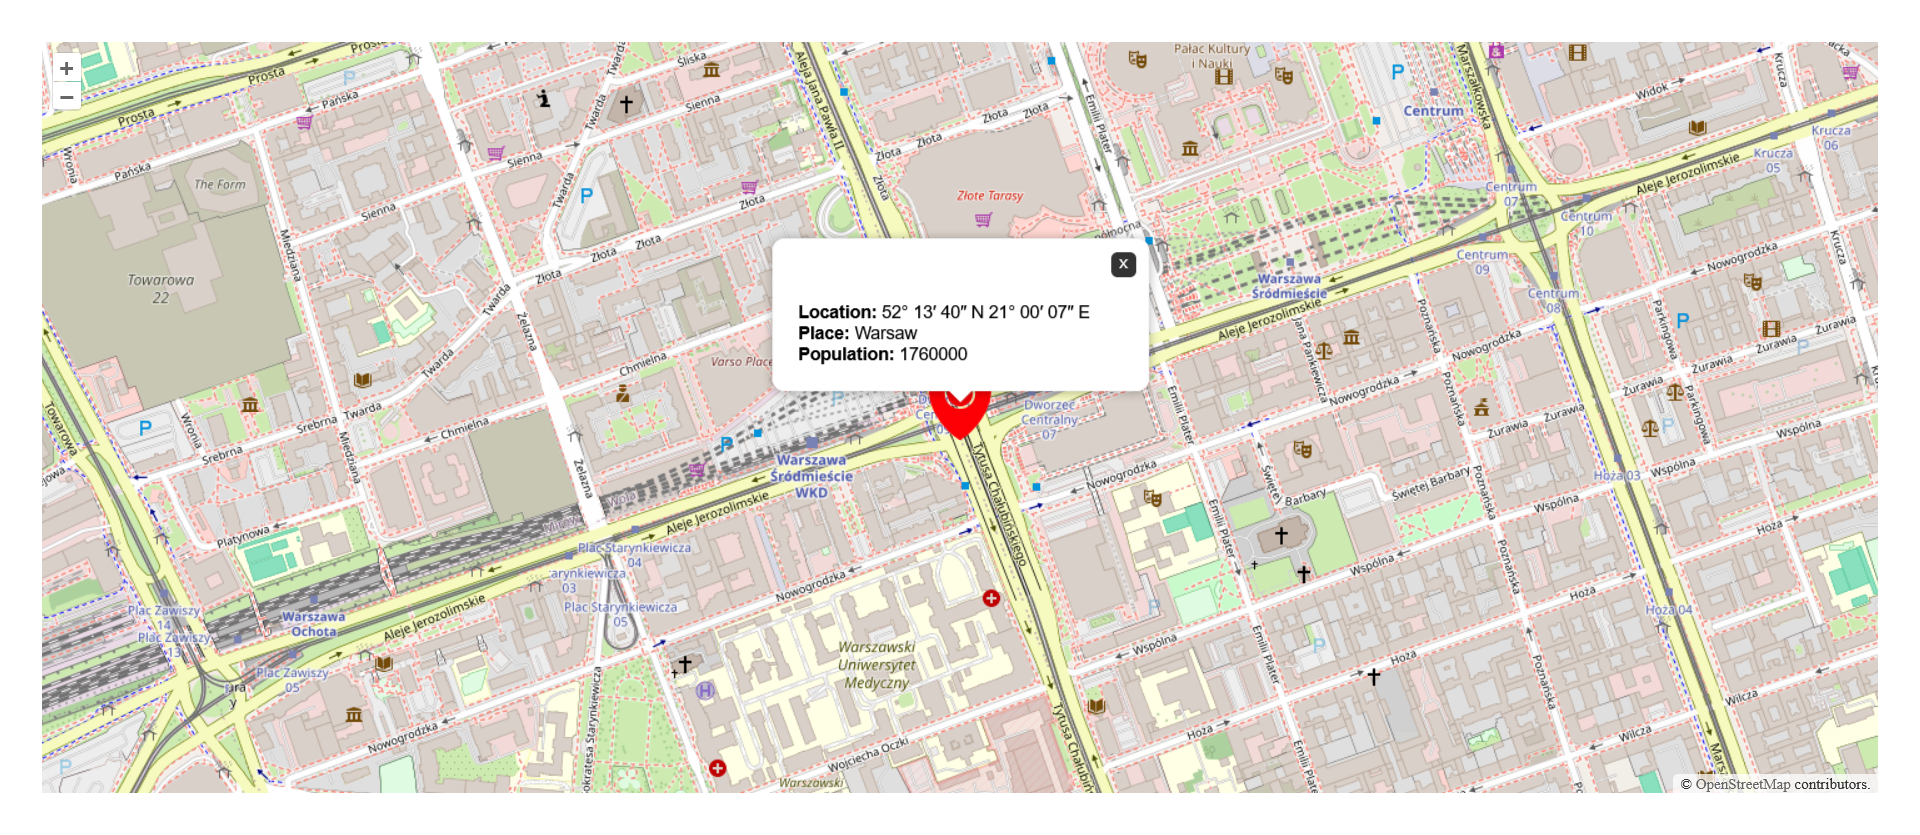
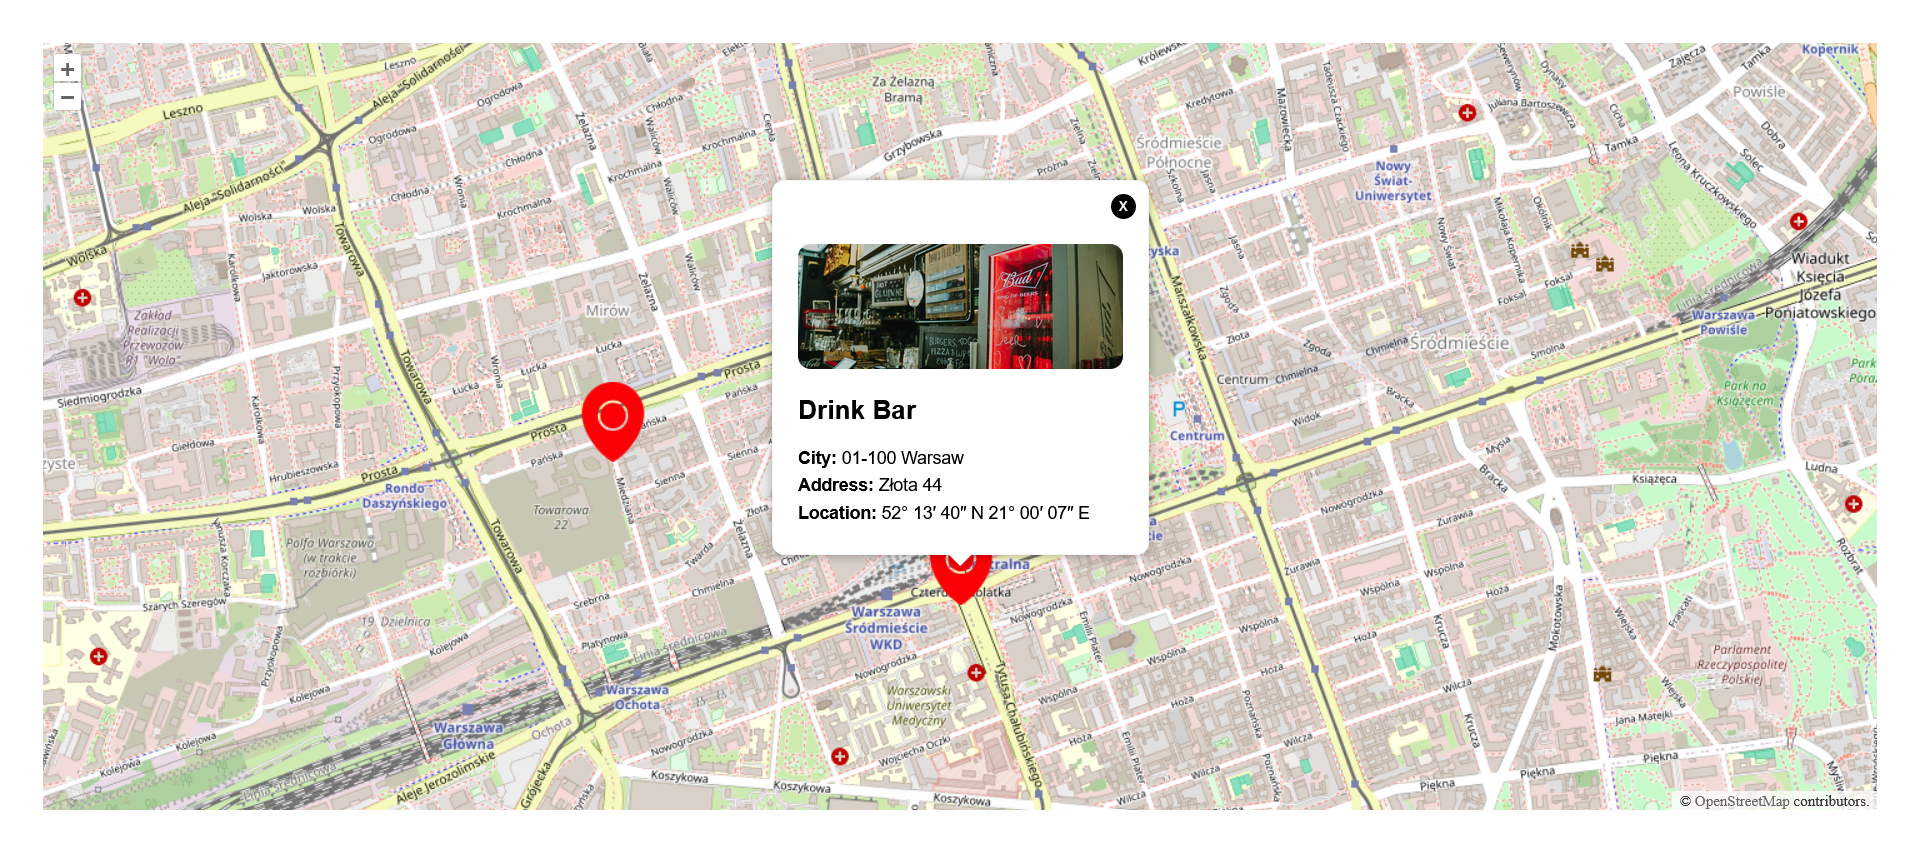
Map markers with popup using OpenLayers
How to create a simple map with a markers using OpenLayers map.

diff --git a/ol-map.js b/ol-map.js
@@ -6,22 +6,34 @@ import Point from 'ol/geom/Point.js';
 import {Icon, Style} from 'ol/style.js';
 import { Vector as VectorSource } from 'ol/source.js';
 import { Tile as TileLayer, Vector as VectorLayer, Image as ImageLayer } from 'ol/layer.js';
-import { fromLonLat } from 'ol/proj.js';
-import { toLonLat } from 'ol/proj.js';
+import { toLonLat, fromLonLat } from 'ol/proj.js';
 import { toStringHDMS } from 'ol/coordinate.js';
 
 // Settings
-const zoom = 16;
-const point = [21.00192, 52.22774]; // LonLat
+const zoom = 15;
+const point = [21.00192, 52.22774]; // Center map
 const lonlat = fromLonLat(point)
+const features = []
 
-// Marker
-const icon = new Feature({  
-  geometry: new Point(lonlat),
-  name: 'Warsaw',
-  population: 1760000,
-});
+// Add markers
+const locations = [
+  {
+    name: 'Drink Bar',
+    street: 'Złota 44',
+    city: '01-100 Warsaw',
+    image: 'https://images.pexels.com/photos/11468998/pexels-photo-11468998.jpeg',
+    point: [21.00192, 52.22774]
+  },
+  {
+    name: 'Pool Bar',
+    street: 'Piękna 14',
+    city: '02-100 Warsaw',
+    image: 'https://images.pexels.com/photos/261043/pexels-photo-261043.jpeg',
+    point: [20.99000, 52.23074]
+  }
+]
 
+// Icon style
 const iconStyle = new Style({
   image: new Icon({
     anchor: [0.5, 46],
@@ -31,10 +43,24 @@ const iconStyle = new Style({
   }),
 });
 
-icon.setStyle(iconStyle);
+// Markers
+locations.forEach((i) => {
+  // Create marker
+  const icon = new Feature({  
+    geometry: new Point(fromLonLat(i.point)),
+    name: i.name,
+    city: i.city,
+    street: i.street,
+    image: i.image
+  })
+  // Add style
+  icon.setStyle(iconStyle)
+  // Add to array
+  features.push(icon)
+})
 
-const vectorSource = new VectorSource({
-  features: [icon],
+const vectorSource = new VectorSource({  
+  features: features,
 });
 
 const vectorLayer = new VectorLayer({
@@ -91,9 +117,11 @@ map.on('singleclick', function (evt) {
   if (feature) {
     const coord = feature.getGeometry().getCoordinates();
     content.innerHTML =
-      '<div><strong>Location:</strong> ' + toStringHDMS(toLonLat(coord)) + '</div>' +
-      '<div><strong>Place:</strong> ' + feature.get('name') + '</div>' +
-      '<div><strong>Population:</strong> ' + feature.get('population') + '</div>'    
+    '<div><img src="' + feature.get('image') + '"/></div>' +
+    '<h2>' + feature.get('name') + '</h2>' +
+    '<div><strong>City:</strong> ' + feature.get('city') + '</div>' +    
+    '<div><strong>Address:</strong> ' + feature.get('street') + '</div>' +
+    '<div><strong>Location:</strong> ' + toStringHDMS(toLonLat(coord)) + '</div>'
     overlay.setPosition(coord);    
   } else {
     overlay.setPosition(undefined);

diff --git a/ol-map.css b/ol-map.css
@@ -29,11 +29,11 @@ body {
   width: 20px;
   height: 20px;
   color: #fff;
-  background: #333;
-  line-height: 17px;
-  text-align: center;
-  border-radius: 5px;
-  font-family: 'consolas';
+  background: #000;
+  line-height: 19px;
+  border-radius: 60%;
+  text-align: center;  
+  font-family: Arial, Helvetica, sans-serif;
   cursor: pointer;
 }
 
@@ -51,6 +51,18 @@ body {
   filter: drop-shadow(0 1px 4px rgba(0,0,0,0.3));
   padding: 20px !important;
   padding-top: 50px !important;
+}
+
+.ol-popup img {
+  width: 100%;  
+  height: 100px;    
+  border-radius: 10px;
+  object-fit: cover;
+  object-position: center;
+}
+
+.ol-popup div {
+  margin-bottom: 5px;
 }
 
 .ol-popup:after, .ol-popup:before {
